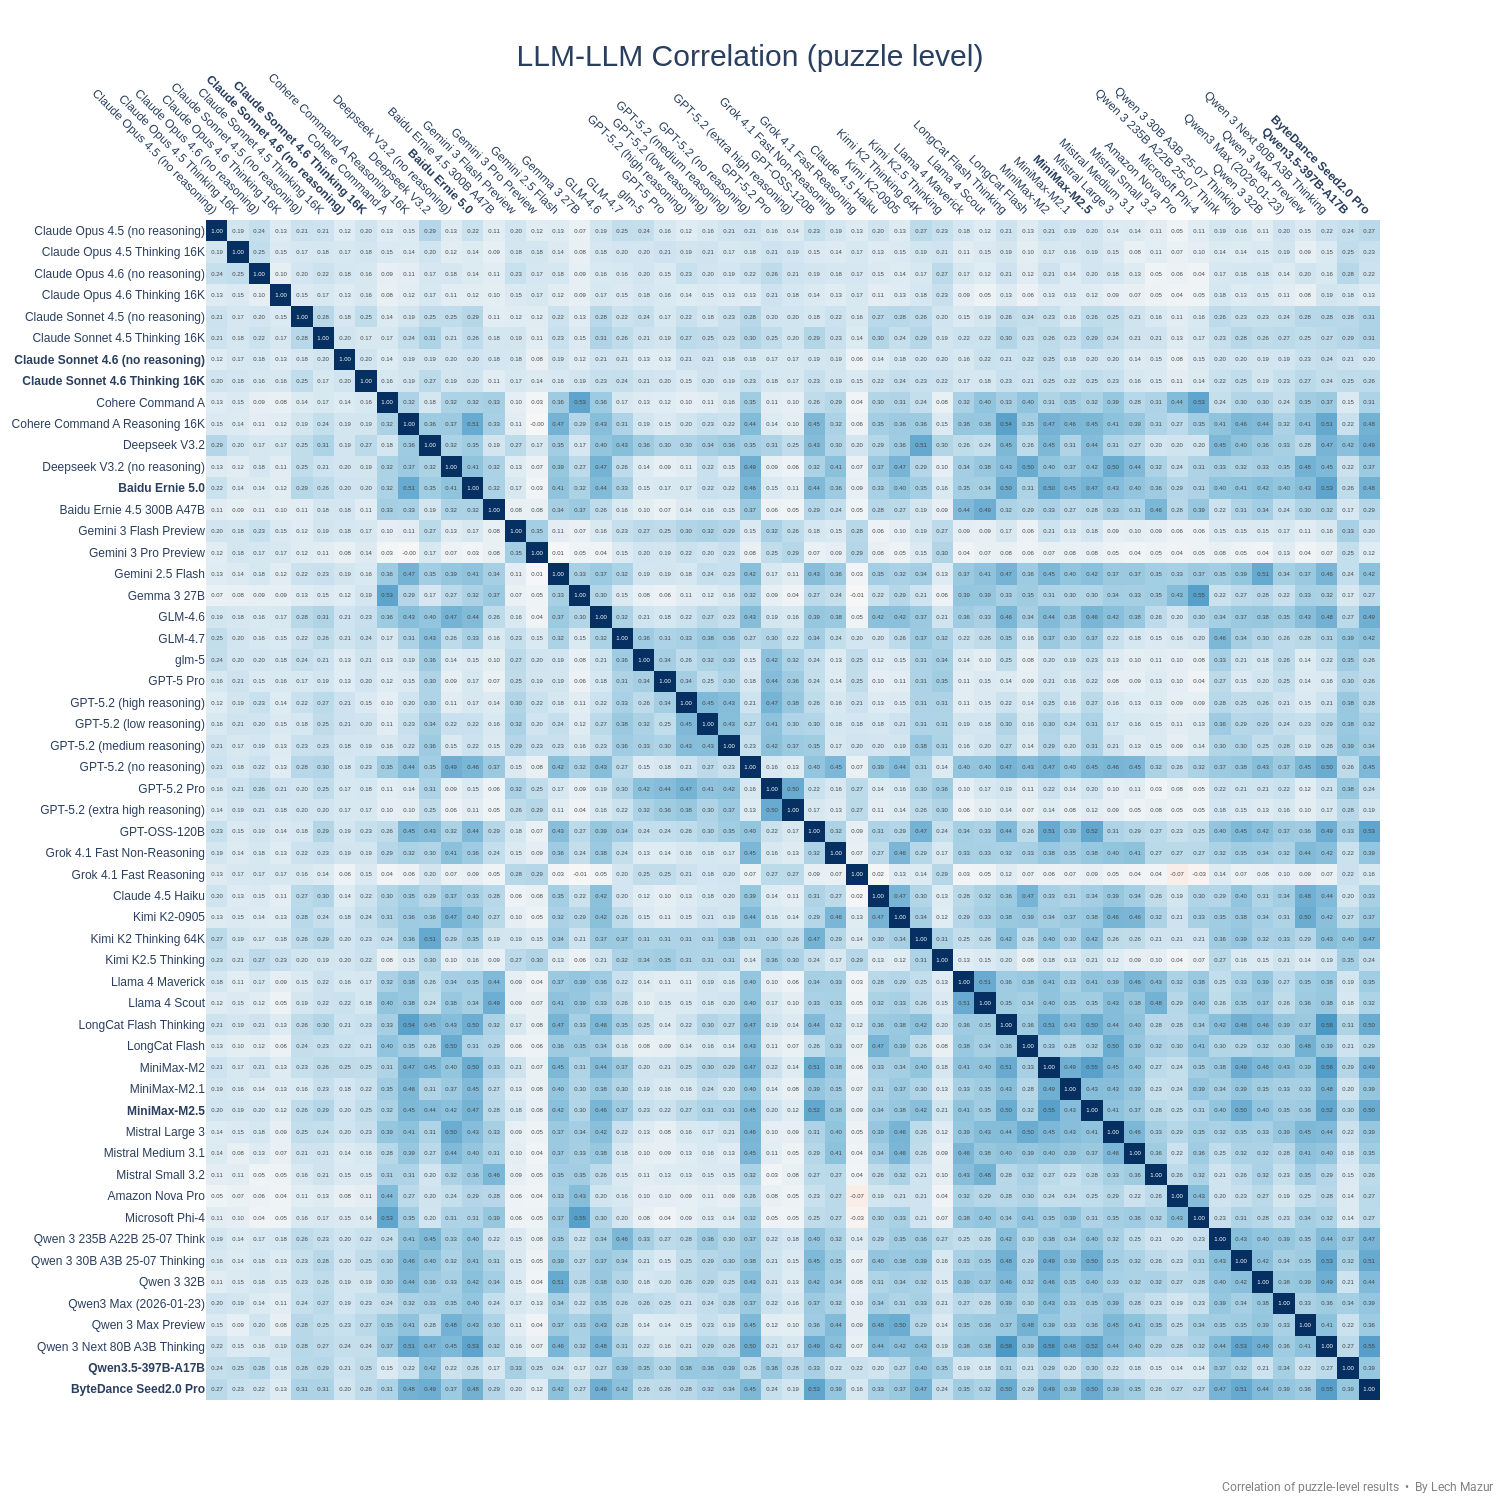
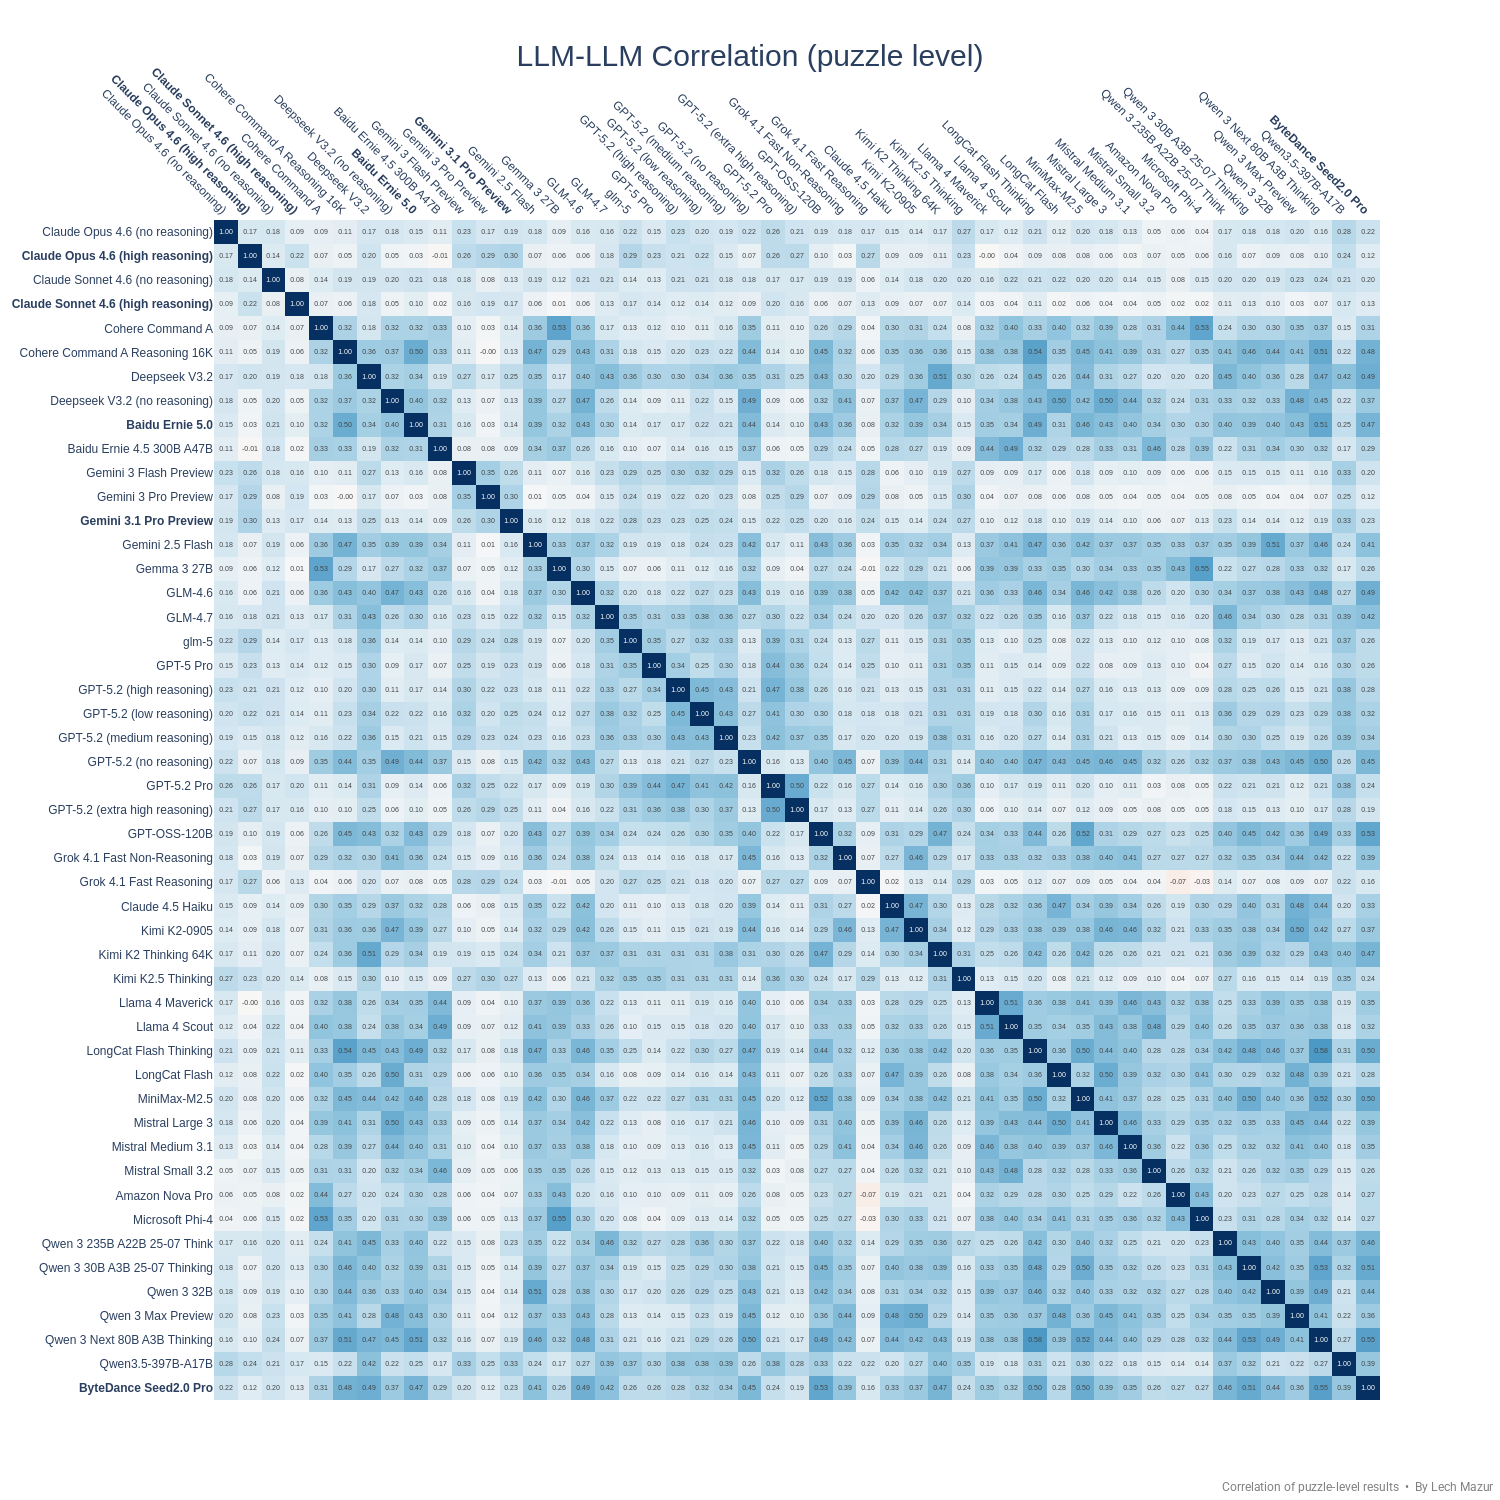
Gemini 3.1 Pro Preview, ByteDance Seed2.0 Pro, Baidu Ernie 5.0 added

diff --git a/README.md b/README.md
@@ -13,145 +13,151 @@ As of Feb 4, 2025, there is a new version of the benchmark. The standard NYT Con
 |Rank|Model|Score %|#Puzzles|
 |---:|-----|------:|-------:|
 |1|Gemini 3 Pro Preview|96.3|940|
-|2|Sherlock Think Alpha|92.4|759|
-|3|Grok 4 Fast Reasoning|92.1|759|
-|4|Grok 4|91.7|759|
-|5|Grok 4.1 Fast Reasoning|91.7|940|
-|6|Sonoma Sky Alpha|90.7|759|
-|7|GPT-5.2 (extra high reasoning)|88.6|940|
-|8|Gemini 3 Flash Preview|88.4|940|
-|9|o3-pro (medium reasoning)|87.3|759|
-|10|GPT-5.2 Pro|85.7|940|
-|11|glm-5|x|x|
-|12|GPT-5 Pro|83.9|759|
-|13|o1-pro (medium reasoning)|82.5|651|
-|14|Claude Opus 4.6 Thinking 16K|81.7|940|
-|15|o3 (high reasoning)|78.6|759|
-|16|Kimi K2.5 Thinking|78.3|940|
-|17|GPT-5.2 (high reasoning)|77.5|940|
-|18|GPT-5 (high reasoning)|77.0|759|
-|19|o4-mini (high reasoning)|73.6|759|
-|20|o3 (medium reasoning)|73.0|759|
-|21|GPT-5 (medium reasoning)|72.2|759|
-|22|GPT-5.2 (medium reasoning)|71.4|940|
-|23|o1 (medium reasoning)|70.8|651|
-|24|GPT-5.1 (high reasoning)|69.9|759|
-|25|Qwen3.5-397B-A17B|69.2|940|
-|26|o4-mini (medium reasoning)|68.8|651|
-|27|GPT-5 mini (medium reasoning)|66.9|759|
-|28|GPT-5.2 (low reasoning)|66.7|940|
-|29|GPT-5 (low reasoning)|65.4|759|
-|30|GPT-5.1 (medium reasoning)|62.7|759|
-|31|Claude Opus 4.5 Thinking 16K|62.6|940|
-|32|o3-mini (high reasoning)|61.4|651|
-|33|Claude Opus 4.5 (no reasoning)|60.3|940|
-|34|GLM-4.7|59.5|767|
-|35|Claude Opus 4.1 Thinking 16K|58.8|759|
-|36|DeepSeek V3.1 Reasoner|57.7|759|
-|37|Gemini 2.5 Pro|57.6|759|
-|38|Claude Sonnet 4.6 Thinking 16K|57.6|940|
-|39|Kimi K2 Thinking 64K|57.3|924|
-|40|Claude Opus 4.6 (no reasoning)|56.7|940|
-|41|Claude Sonnet 4.6 (no reasoning)|55.2|940|
-|42|Qwen 3 235B A22B|54.3|759|
-|43|Gemini 2.5 Pro Exp 03-25|54.1|651|
-|44|o3-mini (medium reasoning)|53.6|651|
-|45|Deepseek V3.2|50.2|940|
-|46|Claude Opus 4 Thinking 16K|49.7|759|
-|47|Claude Sonnet 4.5 Thinking 16K|49.3|940|
-|48|DeepSeek R1 05/28|48.6|759|
-|49|Claude Sonnet 4.5 (no reasoning)|47.4|940|
-|50|Qwen 3 235B A22B 25-07 Think|46.2|759|
-|51|Gemini 2.5 Pro Preview 05-06|42.5|651|
-|52|ByteDance Seed2.0 Pro|x|x|
-|53|Qwen3 Max (2026-01-23)|41.8|940|
-|54|Claude Sonnet 4 Thinking 16K|40.3|759|
-|55|Claude Sonnet 4 Thinking 64K|39.6|651|
-|56|GPT-OSS-120B|38.7|759|
-|57|DeepSeek R1|38.6|651|
-|58|Claude Opus 4.1 (no reasoning)|37.1|759|
-|59|Qwen 3 30B A3B|36.6|759|
-|60|Qwen 3 32B|35.8|759|
-|61|Qwen 3 30B A3B 25-07 Thinking|35.5|759|
-|62|Claude Opus 4 (no reasoning)|34.4|759|
-|63|GPT-4.5 Preview|34.2|651|
-|64|Claude 3.7 Sonnet Thinking 16K|33.6|651|
-|65|Qwen 3 Next 80B A3B Thinking|32.9|759|
-|66|Qwen QwQ-32B 16K|31.4|651|
-|67|LongCat Flash Thinking|31.0|940|
-|68|Grok 3 Mini Beta (high)|30.2|759|
-|69|GLM-4.5|30.2|759|
-|70|MiniMax-M2.5|29.6|940|
-|71|GPT-5.2 (no reasoning)|28.1|940|
-|72|GPT-5 (minimal reasoning)|27.3|759|
-|73|MiniMax-M2|27.0|940|
-|74|o1-mini|26.9|651|
-|75|Claude Sonnet 4 (no reasoning)|26.6|759|
-|76|Grok 3 Mini Beta (low)|26.0|651|
-|77|Claude 4.5 Haiku|25.9|940|
-|78|Quasar Alpha|25.4|651|
-|79|Cohere Command A Reasoning 16K|25.3|759|
-|80|Gemini 2.5 Flash|25.2|759|
-|81|Sherlock Dash Alpha|25.1|759|
-|82|Grok 4.1 Fast Non-Reasoning|25.0|940|
-|83|Grok 4 Fast Non-Reasoning|24.9|759|
-|84|GPT-4o Mar 2025|24.5|759|
-|85|GLM-4.6|24.2|759|
-|86|Qwen 3 Max Thinking|24.1|940|
-|87|Qwen 3 Max Preview|23.9|759|
-|88|Kimi K2-0905|23.6|759|
-|89|Gemini 2.0 Flash Think Exp 01-21|23.1|649|
-|90|GPT-4.1|22.8|759|
-|91|Sonoma Dusk Alpha|22.8|759|
-|92|MiniMax-M2.1|22.7|940|
-|93|GPT-4o Feb 2025|22.7|651|
-|94|GPT-5.1 (no reasoning)|22.1|759|
-|95|Baidu Ernie 5.0|x|x|
-|96|Polaris Alpha|21.8|759|
-|97|Gemini 2.0 Pro Exp 02-05|21.7|651|
-|98|DeepSeek V3.1 Non-Think|21.6|759|
-|99|MiniMax-M1|21.3|688|
-|100|Kimi K2|19.8|759|
-|101|Qwen 3 235B A22B 25-07 Instruct|19.8|759|
-|102|Grok 3 Beta (no reasoning)|19.7|759|
-|103|Grok 2 12-12|19.2|651|
-|104|Gemini 1.5 Pro (Sept)|19.2|601|
-|105|Claude 3 Opus|19.2|650|
-|106|Claude 3.7 Sonnet|19.2|651|
-|107|Gemini 2.0 Flash|18.8|651|
-|108|GPT-4o 2024-11-20|18.7|601|
-|109|Llama 4 Maverick|18.4|940|
-|110|Qwen 2.5 Max|18.0|651|
-|111|Deepseek V3.2 (no reasoning)|17.8|940|
-|112|GPT-4o 2024-08-06|17.8|601|
-|113|Claude 3.5 Sonnet 2024-10-22|17.7|651|
-|114|Llama 4 Scout|17.4|759|
-|115|Mistral Large 3|17.2|940|
-|116|DeepSeek V3-0324|16.8|759|
-|117|Llama 3.1 405B|16.2|651|
-|118|Mistral Medium 3.1|15.5|940|
-|119|DeepSeek V3|15.1|651|
-|120|Llama 3.3 70B|15.1|651|
-|121|Baidu Ernie 4.5 300B A47B|14.8|759|
-|122|GPT-4.1 mini|14.4|759|
-|123|LongCat Flash|13.9|660|
-|124|MiniMax-Text-01|13.8|759|
-|125|Cohere Command A|13.1|759|
-|126|Mistral Large 2|12.4|759|
-|127|Gemma 2 27B|12.2|651|
-|128|Gemma 3 27B|11.6|759|
-|129|Mistral Medium 3|11.5|759|
-|130|Mistral Small 3.1|11.4|651|
-|131|Mistral Small 3.2|11.2|759|
-|132|Qwen 2.5 72B|10.5|759|
-|133|Claude 3.5 Haiku|10.0|759|
-|134|Amazon Nova Pro|9.9|759|
-|135|Microsoft Phi-4|9.9|759|
-|136|GPT-4o mini|9.7|759|
-|137|Mistral Small 3|8.9|601|
-|138|GPT-4.1 nano|8.1|759|
-|139|GLM4-32B-0414|7.6|759|
-|140|Claude 3 Haiku|2.2|601|
+|2|Claude Opus 4.6 (high reasoning)|94.7|940|
+|3|Sherlock Think Alpha|92.4|759|
+|4|Grok 4 Fast Reasoning|92.1|759|
+|5|Grok 4|91.7|759|
+|6|Grok 4.1 Fast Reasoning|91.7|940|
+|7|Sonoma Sky Alpha|90.7|759|
+|8|GPT-5.2 (extra high reasoning)|88.6|940|
+|9|Gemini 3.1 Pro Preview|88.5|940|
+|10|Gemini 3 Flash Preview|88.4|940|
+|11|o3-pro (medium reasoning)|87.3|759|
+|12|GPT-5.2 Pro|85.7|940|
+|13|Claude Sonnet 4.6 (high reasoning)|85.7|940|
+|14|GPT-5 Pro|83.9|759|
+|15|glm-5|83.7|835|
+|16|o1-pro (medium reasoning)|82.5|651|
+|17|Claude Sonnet 4.6 Thinking 32K|82.4|940|
+|18|Claude Opus 4.6 Thinking 16K|81.7|940|
+|19|o3 (high reasoning)|78.6|759|
+|20|Kimi K2.5 Thinking|78.3|940|
+|21|GPT-5.2 (high reasoning)|77.5|940|
+|22|GPT-5 (high reasoning)|77.0|759|
+|23|o4-mini (high reasoning)|73.6|759|
+|24|o3 (medium reasoning)|73.0|759|
+|25|GPT-5 (medium reasoning)|72.2|759|
+|26|GPT-5.2 (medium reasoning)|71.4|940|
+|27|o1 (medium reasoning)|70.8|651|
+|28|GPT-5.1 (high reasoning)|69.9|759|
+|29|Qwen3.5-397B-A17B|69.2|940|
+|30|o4-mini (medium reasoning)|68.8|651|
+|31|GPT-5 mini (medium reasoning)|66.9|759|
+|32|GPT-5.2 (low reasoning)|66.7|940|
+|33|GPT-5 (low reasoning)|65.4|759|
+|34|GPT-5.1 (medium reasoning)|62.7|759|
+|35|Claude Opus 4.5 Thinking 16K|62.6|940|
+|36|o3-mini (high reasoning)|61.4|651|
+|37|Claude Opus 4.5 (no reasoning)|60.3|940|
+|38|GLM-4.7|59.5|767|
+|39|Claude Opus 4.1 Thinking 16K|58.8|759|
+|40|DeepSeek V3.1 Reasoner|57.7|759|
+|41|Gemini 2.5 Pro|57.6|759|
+|42|Claude Sonnet 4.6 Thinking 16K|57.6|940|
+|43|Kimi K2 Thinking 64K|57.3|924|
+|44|Claude Opus 4.6 (no reasoning)|56.7|940|
+|45|Claude Sonnet 4.6 (no reasoning)|55.2|940|
+|46|Qwen 3 235B A22B|54.3|759|
+|47|Gemini 2.5 Pro Exp 03-25|54.1|651|
+|48|o3-mini (medium reasoning)|53.6|651|
+|49|Deepseek V3.2|50.2|940|
+|50|Claude Opus 4 Thinking 16K|49.7|759|
+|51|Claude Sonnet 4.5 Thinking 16K|49.3|940|
+|52|DeepSeek R1 05/28|48.6|759|
+|53|Claude Sonnet 4.5 (no reasoning)|47.4|940|
+|54|Qwen 3 235B A22B 25-07 Think|46.2|759|
+|55|Gemini 2.5 Pro Preview 05-06|42.5|651|
+|56|ByteDance Seed2.0 Pro|42.1|940|
+|57|Qwen3 Max (2026-01-23)|41.8|940|
+|58|Claude Sonnet 4 Thinking 16K|40.3|759|
+|59|Claude Sonnet 4 Thinking 64K|39.6|651|
+|60|GPT-OSS-120B|38.7|759|
+|61|DeepSeek R1|38.6|651|
+|62|Claude Opus 4.1 (no reasoning)|37.1|759|
+|63|Qwen 3 30B A3B|36.6|759|
+|64|Qwen 3 32B|35.8|759|
+|65|Qwen 3 30B A3B 25-07 Thinking|35.5|759|
+|66|Claude Opus 4 (no reasoning)|34.4|759|
+|67|GPT-4.5 Preview|34.2|651|
+|68|Claude 3.7 Sonnet Thinking 16K|33.6|651|
+|69|Qwen 3 Next 80B A3B Thinking|32.9|759|
+|70|Qwen QwQ-32B 16K|31.4|651|
+|71|LongCat Flash Thinking|31.0|940|
+|72|Grok 3 Mini Beta (high)|30.2|759|
+|73|GLM-4.5|30.2|759|
+|74|MiniMax-M2.5|29.6|940|
+|75|GPT-5.2 (no reasoning)|28.1|940|
+|76|Claude Opus 4.6 Thinking 32K|28.1|98|
+|77|GPT-5 (minimal reasoning)|27.3|759|
+|78|MiniMax-M2|27.0|940|
+|79|o1-mini|26.9|651|
+|80|Claude Sonnet 4 (no reasoning)|26.6|759|
+|81|Grok 3 Mini Beta (low)|26.0|651|
+|82|Claude 4.5 Haiku|25.9|940|
+|83|Quasar Alpha|25.4|651|
+|84|Cohere Command A Reasoning 16K|25.3|759|
+|85|Gemini 2.5 Flash|25.2|759|
+|86|Sherlock Dash Alpha|25.1|759|
+|87|Grok 4.1 Fast Non-Reasoning|25.0|940|
+|88|Grok 4 Fast Non-Reasoning|24.9|759|
+|89|GPT-4o Mar 2025|24.5|759|
+|90|GLM-4.6|24.2|759|
+|91|Qwen 3 Max Thinking|24.1|940|
+|92|Qwen 3 Max Preview|23.9|759|
+|93|Kimi K2-0905|23.6|759|
+|94|Gemini 2.0 Flash Think Exp 01-21|23.1|649|
+|95|GPT-4.1|22.8|759|
+|96|Sonoma Dusk Alpha|22.8|759|
+|97|MiniMax-M2.1|22.7|940|
+|98|GPT-4o Feb 2025|22.7|651|
+|99|GPT-5.1 (no reasoning)|22.1|759|
+|100|Polaris Alpha|21.8|759|
+|101|Gemini 2.0 Pro Exp 02-05|21.7|651|
+|102|DeepSeek V3.1 Non-Think|21.6|759|
+|103|MiniMax-M1|21.3|688|
+|104|Baidu Ernie 5.0|21.2|940|
+|105|Kimi K2|19.8|759|
+|106|Qwen 3 235B A22B 25-07 Instruct|19.8|759|
+|107|Grok 3 Beta (no reasoning)|19.7|759|
+|108|Grok 2 12-12|19.2|651|
+|109|Gemini 1.5 Pro (Sept)|19.2|601|
+|110|Claude 3 Opus|19.2|650|
+|111|Claude 3.7 Sonnet|19.2|651|
+|112|Gemini 2.0 Flash|18.8|651|
+|113|GPT-4o 2024-11-20|18.7|601|
+|114|Llama 4 Maverick|18.4|940|
+|115|Qwen 2.5 Max|18.0|651|
+|116|Deepseek V3.2 (no reasoning)|17.8|940|
+|117|GPT-4o 2024-08-06|17.8|601|
+|118|Claude 3.5 Sonnet 2024-10-22|17.7|651|
+|119|Llama 4 Scout|17.4|759|
+|120|Mistral Large 3|17.2|940|
+|121|DeepSeek V3-0324|16.8|759|
+|122|Llama 3.1 405B|16.2|651|
+|123|Mistral Medium 3.1|15.5|940|
+|124|DeepSeek V3|15.1|651|
+|125|Llama 3.3 70B|15.1|651|
+|126|Baidu Ernie 4.5 300B A47B|14.8|759|
+|127|GPT-4.1 mini|14.4|759|
+|128|LongCat Flash|13.9|660|
+|129|MiniMax-Text-01|13.8|759|
+|130|Cohere Command A|13.1|759|
+|131|Mistral Large 2|12.4|759|
+|132|Gemma 2 27B|12.2|651|
+|133|Gemma 3 27B|11.6|759|
+|134|Mistral Medium 3|11.5|759|
+|135|Mistral Small 3.1|11.4|651|
+|136|Mistral Small 3.2|11.2|759|
+|137|Qwen 2.5 72B|10.5|759|
+|138|Claude 3.5 Haiku|10.0|759|
+|139|Amazon Nova Pro|9.9|759|
+|140|Microsoft Phi-4|9.9|759|
+|141|GPT-4o mini|9.7|759|
+|142|Mistral Small 3|8.9|601|
+|143|GPT-4.1 nano|8.1|759|
+|144|GLM4-32B-0414|7.6|759|
+|145|Claude 3 Haiku|2.2|601|
+
 
 
 
@@ -262,6 +268,7 @@ This benchmark evaluates large language models (LLMs) using 436 NYT Connections 
 ---
 
 ## Updates
+- Feb 20, 2026: Gemini 3.1 Pro Preview, ByteDance Seed2.0 Pro, Baidu Ernie 5.0 added.
 - Feb 17, 2026: Claude Sonnet 4.6, Qwen3.5-397B-A17B, MiniMax-M2.5 added.
 - Feb 6, 2026: Claude Opus 4.6 added.
 - Feb 2, 2026: 940 total puzzles. Kimi K2.5 Thinking, Qwen3 Max (2026-01-23), MiniMax-M2.1, DeepSeek V3.2 added.
